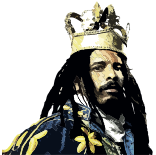
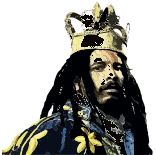
All slideshow images: black backgrounds — seamless on dark canvas
Converted white/light backgrounds to #0b0805 black on all slides.
Welcome + Coffee slideshows now blend perfectly with the dark theme.

diff --git a/components/TabBar.tsx b/components/TabBar.tsx
@@ -42,11 +42,11 @@ export default function TabBar() {
 
   const coffeeSlides = [
     { src: '/brand/marley-coffee-lion-gold.png', alt: 'Marley Coffee' },
-    { src: '/brand/coffee-slide-1.jpg', alt: 'Marley Coffee Collection' },
-    { src: '/brand/coffee-slide-2.webp', alt: 'One Love Blend' },
-    { src: '/brand/coffee-slide-3.webp', alt: 'Lively Up Blend' },
-    { src: '/brand/coffee-slide-4.webp', alt: 'Get Up Stand Up Blend' },
-    { src: '/brand/coffee-slide-5.webp', alt: 'Buffalo Soldier Blend' },
+    { src: '/brand/coffee-slide-1.png', alt: 'Marley Coffee Collection' },
+    { src: '/brand/coffee-slide-2.png', alt: 'One Love Blend' },
+    { src: '/brand/coffee-slide-3.png', alt: 'Lively Up Blend' },
+    { src: '/brand/coffee-slide-4.png', alt: 'Get Up Stand Up Blend' },
+    { src: '/brand/coffee-slide-5.png', alt: 'Buffalo Soldier Blend' },
   ];
 
   function handleSplashTab(tab: Tab) {

diff --git a/components/Threshold.tsx b/components/Threshold.tsx
@@ -19,7 +19,7 @@ const slides: { id: Stage; src: string; alt: string; hold: number; size: string 
   { id: 'kingclem2', src: '/brand/welcome-slide-4.png', alt: 'King Clementine V2', hold: 3000, size: 'w-[70vw] max-w-[340px]' },
   { id: 'sketch', src: '/brand/welcome-slide-3.png', alt: 'The Movement', hold: 3000, size: 'w-[80vw] max-w-[380px]' },
   { id: 'product', src: '/brand/welcome-slide-5.jpg', alt: 'Lion Order — Flower to the People', hold: 3000, size: 'w-[65vw] max-w-[300px]' },
-  { id: 'crest', src: '/brand/welcome-slide-1.jpg', alt: 'Royal Crest', hold: 3000, size: 'w-[65vw] max-w-[300px]' },
+  { id: 'crest', src: '/brand/welcome-slide-1.png', alt: 'Royal Crest', hold: 3000, size: 'w-[65vw] max-w-[300px]' },
   { id: 'monogram', src: '/brand/rhr-monogram-transparent.png', alt: 'R-M', hold: 4000, size: 'w-[70vw] max-w-[280px]' },
 ];
 